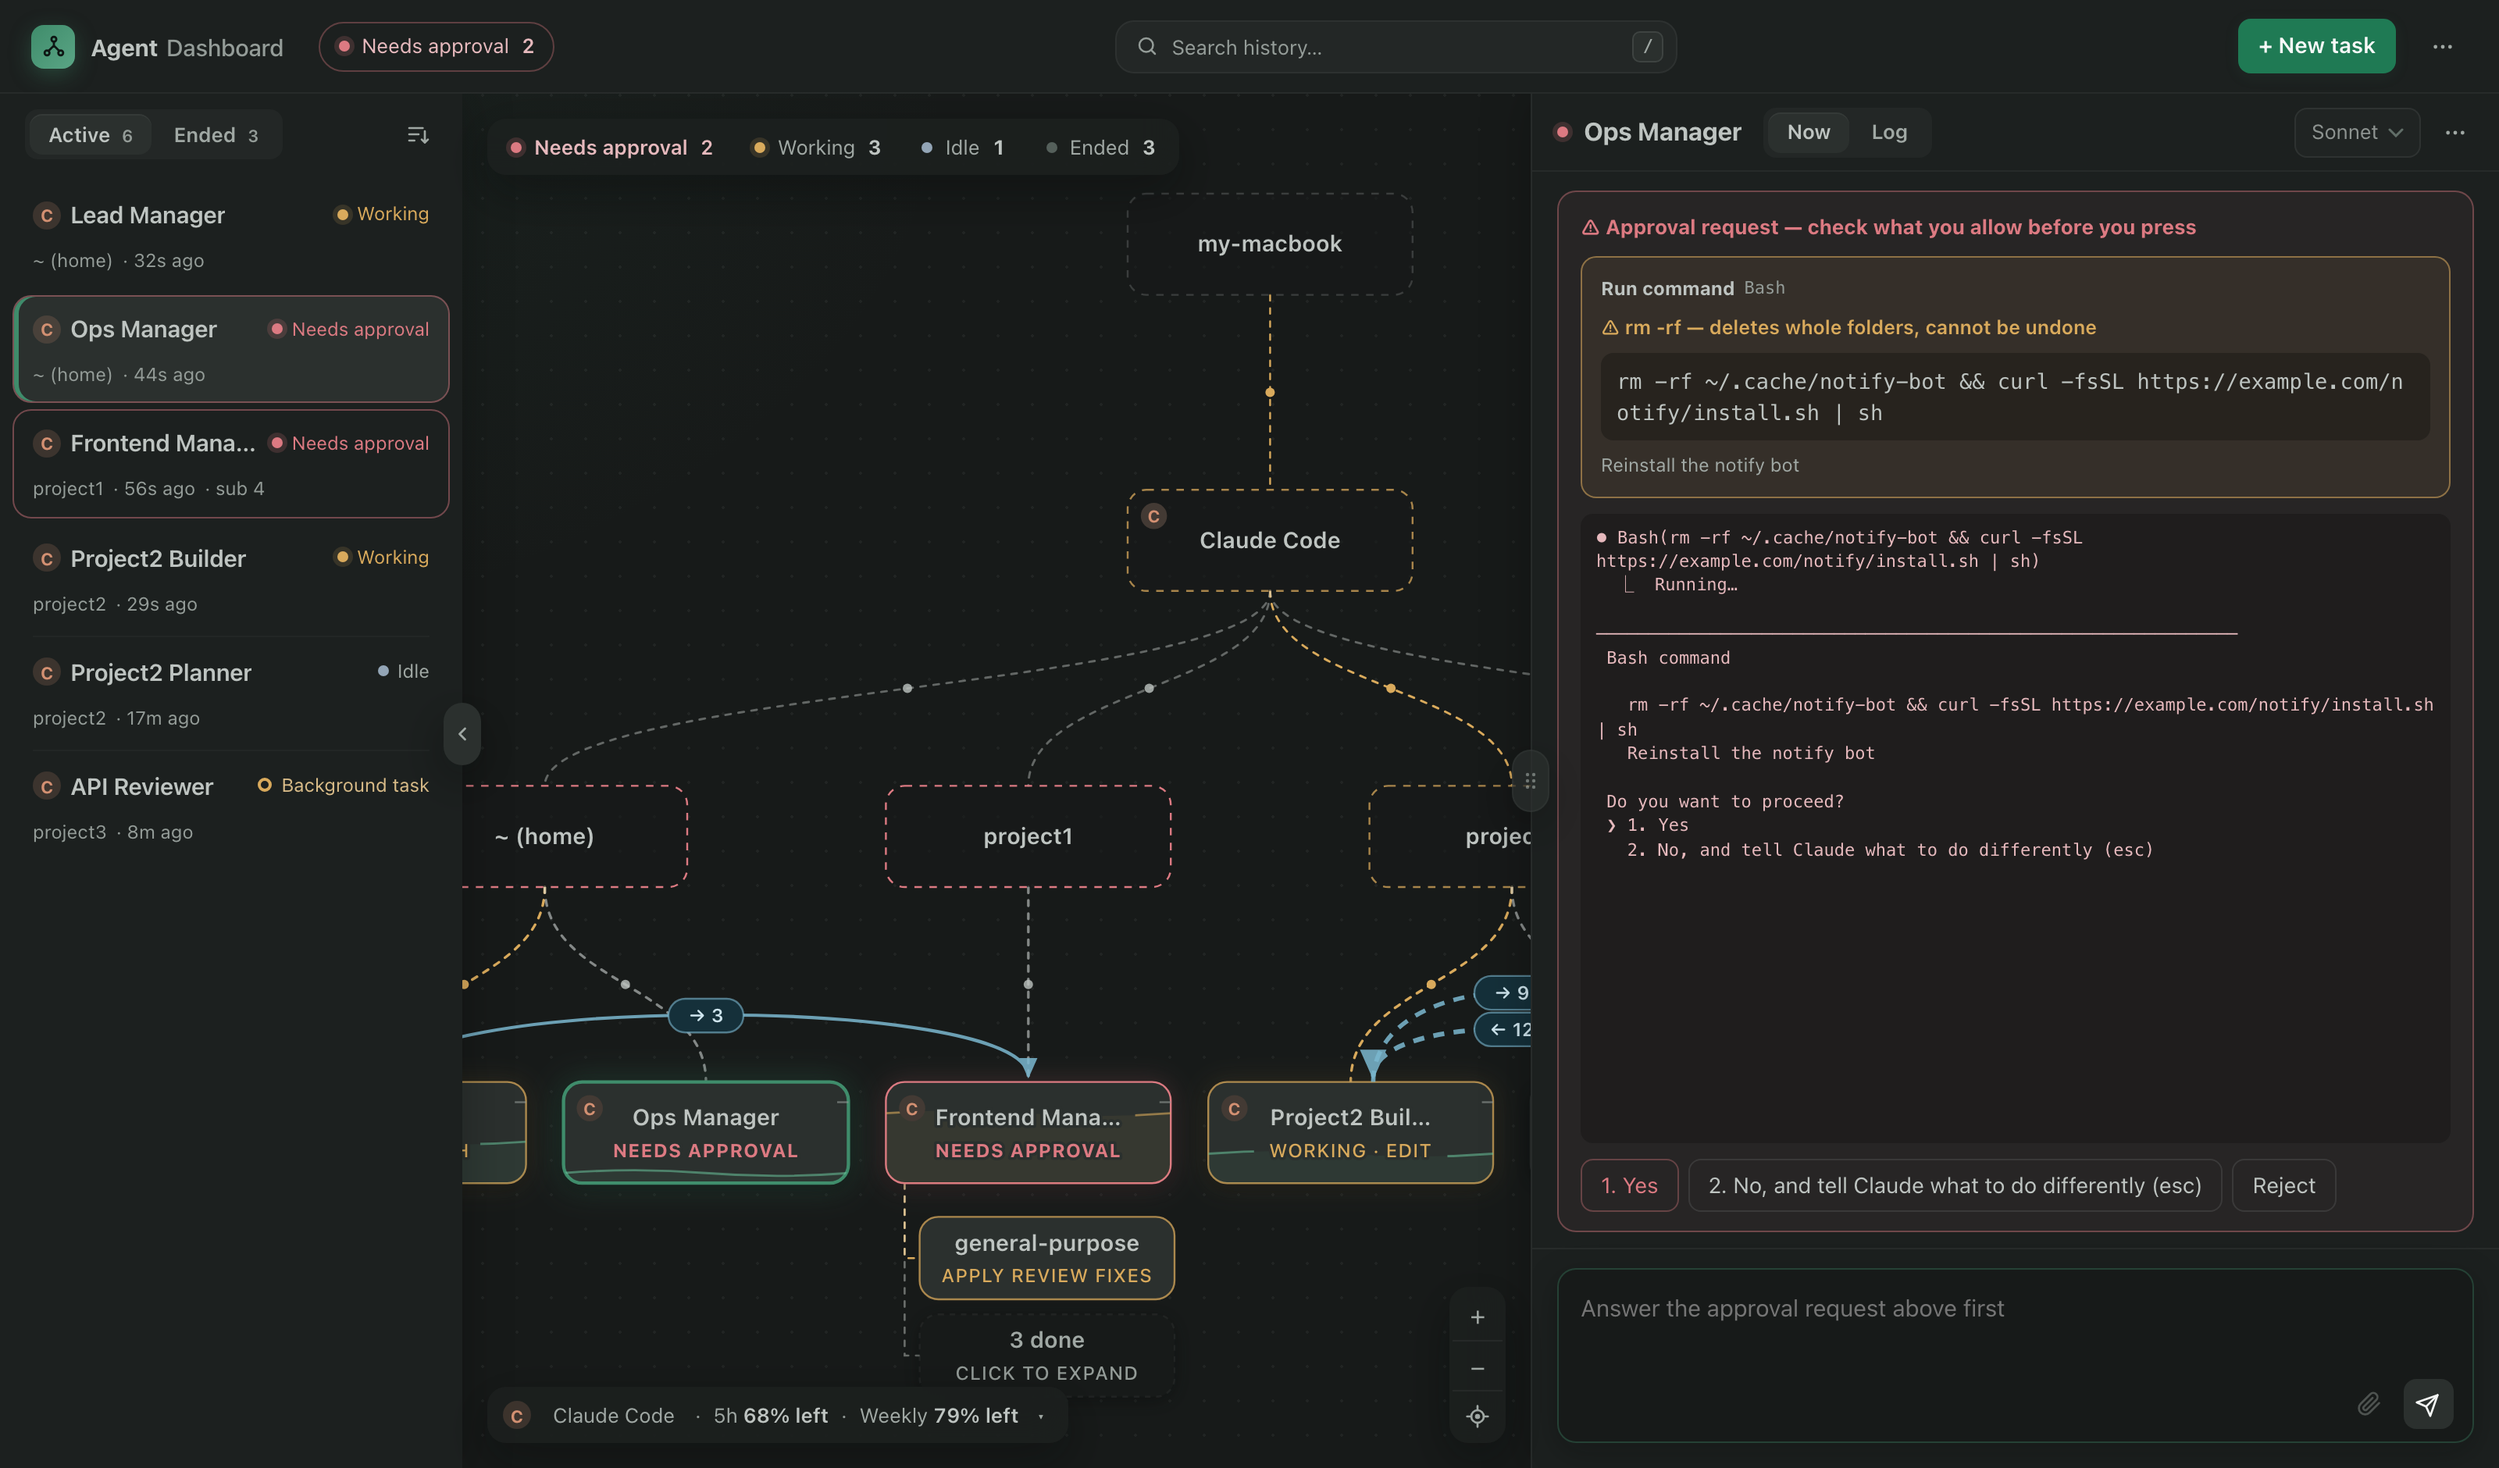
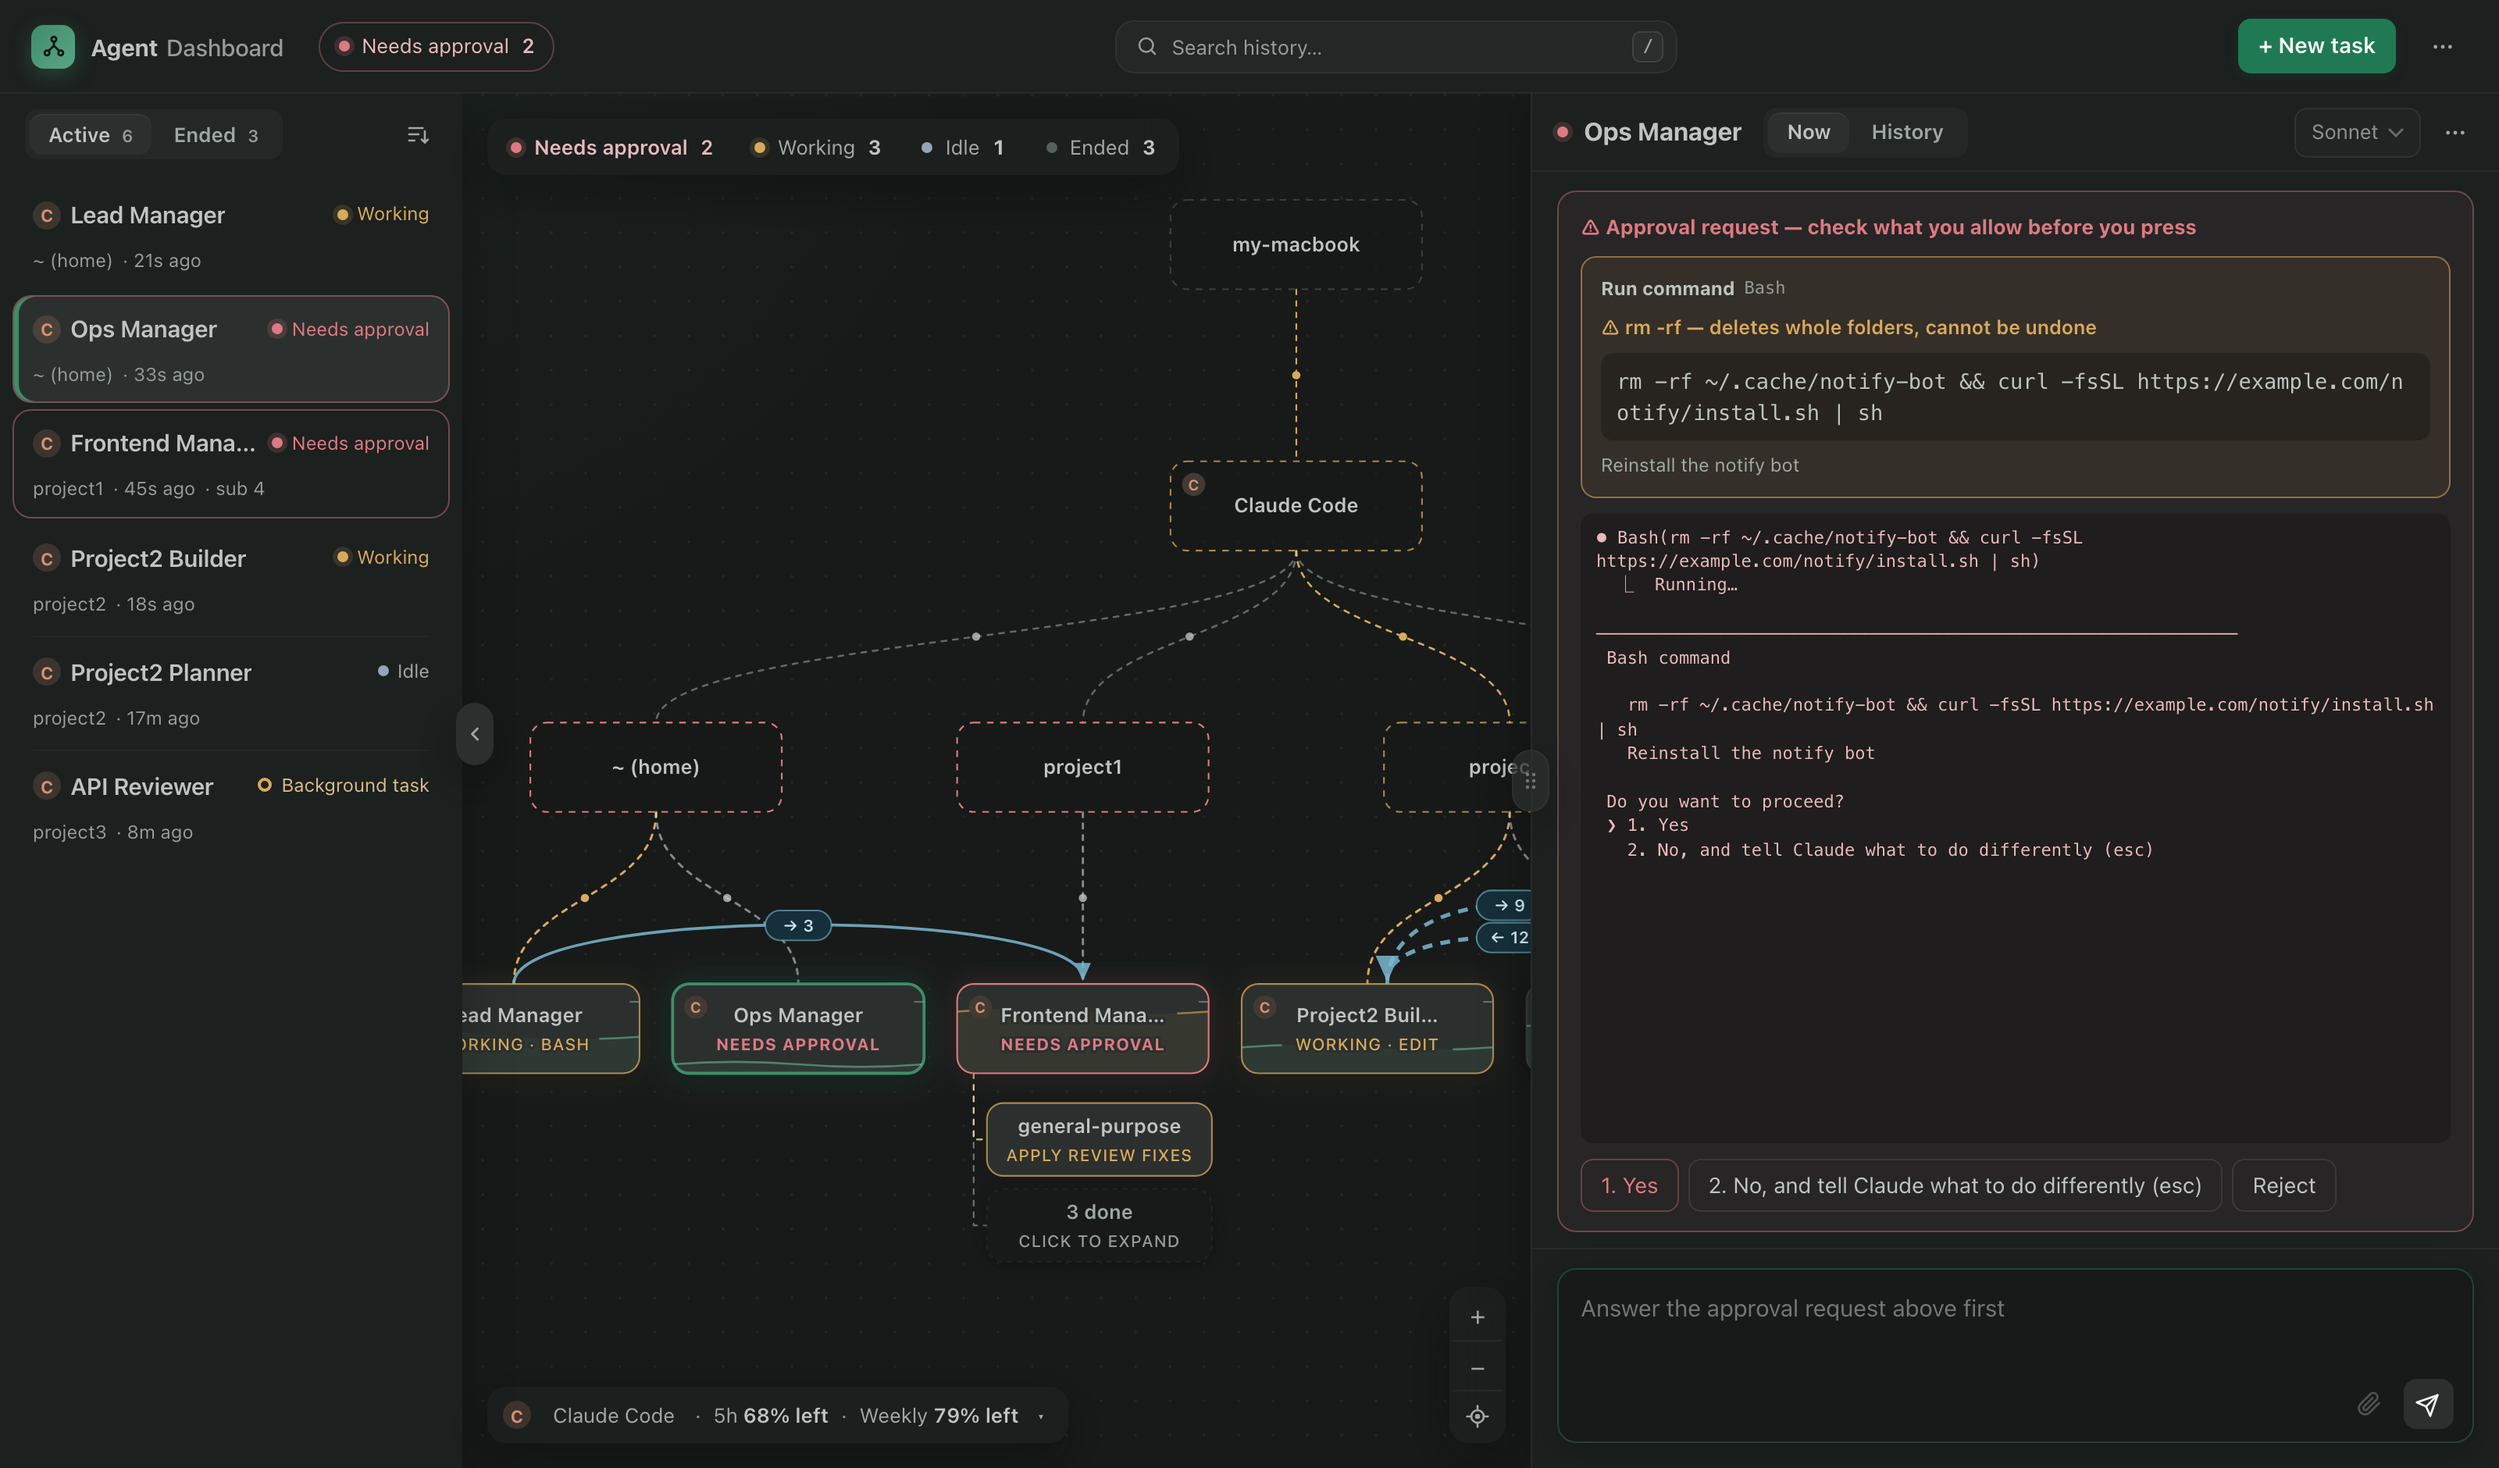
README 그림 다시(데모): 전체 · 세션 패널 · 승인 · GIF 두 언어 + 좁은 화면 목록 서랍
11-18 그림은 영어 탭 이름(Log → History) · 목록 접기 탭 자리 · 떠 있는 무리 배치가 낡았고, 영어 패널의 명령 설명이 한국어였다(e4e0a42 로 고침).
같은 설정(1600x940 @2x, GIF 1100px 6fps 82장)으로 다시 찍고 390px 서랍(종료 탭) 그림을 더했다. GIF 는 128색 팔레트로 635K → 475K.

diff --git a/README.en.md b/README.en.md
@@ -57,6 +57,8 @@ Agent Dashboard puts all of this on one screen.
 
 ![Approval — "what you're allowing" card (amber when risky) + the real terminal screen + option buttons](https://raw.githubusercontent.com/Yun7420/agent-dashboard/main/docs/images/approval-en.png)
 
+<img src="https://raw.githubusercontent.com/Yun7420/agent-dashboard/main/docs/images/narrow-drawer-en.png" width="300" alt="Narrow screen (390px) — the list drawer opened with ☰, showing the Ended tab and "Reopen"">
+
 ## Getting started
 
 ### Requirements

diff --git a/README.md b/README.md
@@ -58,6 +58,8 @@ Agent Dashboard는 이걸 한 화면에 모읍니다.
 
 ![승인 요청 — 허락할 내용 카드(위험하면 경고) + 터미널 화면 그대로 + 선택지 버튼](https://raw.githubusercontent.com/Yun7420/agent-dashboard/main/docs/images/approval.png)
 
+<img src="https://raw.githubusercontent.com/Yun7420/agent-dashboard/main/docs/images/narrow-drawer.png" width="300" alt="좁은 화면(390px) — ☰ 로 목록 서랍을 펼친 종료 탭과 「다시 열기」">
+
 ## 시작하기
 
 ### 준비물
